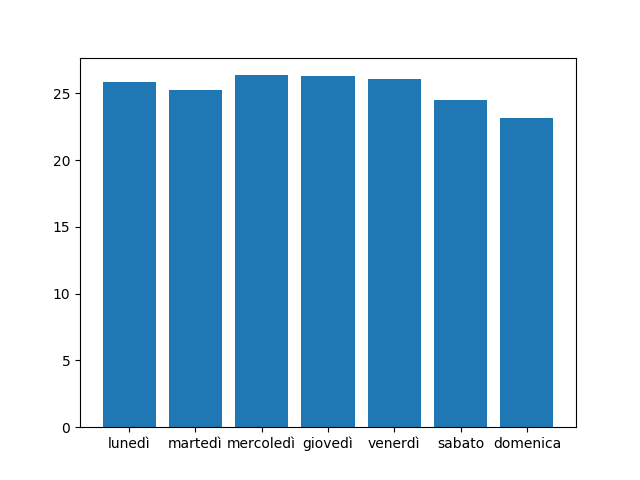
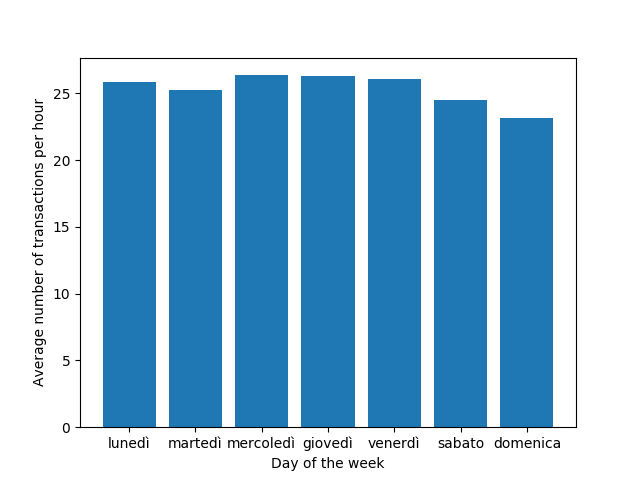
Added more graphs

Changed region(s): [[0.0312, 0.2188, 0.0938, 0.6562], [0.4375, 0.9375, 0.5938, 1.0], [0.0312, 0.6875, 0.0938, 0.8125]]

diff --git a/specification_model/analyze.py b/specification_model/analyze.py
@@ -4,7 +4,10 @@ import csv
 import scipy.stats as st
 import re
 from datetime import datetime
+from sklearn import datasets, linear_model
 
+
+monday = "2017-12-11"
 
 def days_between(d1, d2):
     d1 = datetime.strptime(d1, "%Y-%m-%d")
@@ -37,7 +40,8 @@ def get_best_distribution(data):
 
 
 
-def plot_trans_time():
+
+def plot_trans_time_old():
 	fd = open('trans_time.csv', newline='')
 	trans_time = csv.reader(fd, delimiter=',', quotechar='"')
 
@@ -61,15 +65,71 @@ def plot_trans_time():
 				pass
 		
 
+
+	best_fit = np.polyfit(items_1, times_1, 1)
+	# Train the model using the training set
+
+	# Make predictions using the testing set
+
 	#for i in range(0, len(items)):
 	#	print(times[i], items[i])
 
 	plt.scatter(items_1, times_1, s=5, color="r")
-	plt.scatter(items_8, times_8, s=5, color="b")
+	#plt.scatter(items_8, times_8, s=5, color="b")
 
+	pred_1 = [best_fit[0]*item + best_fit[1] for item in items_1]
+
+	plt.plot(items_1, pred_1 , color="b")
+	plt.xlabel("Number of items")
+	plt.ylabel("Duration of transaction")
 	plt.show()
 
-def plot_item_quantity():
+def plot_trans_time(day_filter):
+	fd = open('trans_time.csv', newline='')
+	trans_time = csv.reader(fd, delimiter=',', quotechar='"')
+
+	times_1 = []
+	items_1 = []
+
+	times_8 = []
+	items_8 = []
+	for row in trans_time:
+
+		if row[0] == 'WorkstationGroupID':
+			continue
+		day = row[2].split("T")[0]
+
+		if days_between(day, monday) % 7 == day_filter:
+			if row[0] == '1':
+				times_1.append(int(row[5]))
+				items_1.append(int(row[7]))
+			else:
+				times_8.append(int(row[5]))
+				items_8.append(int(row[7]))
+			
+
+
+	best_fit = np.polyfit(items_1, times_1, 1)
+	# Train the model using the training set
+
+	# Make predictions using the testing set
+
+	#for i in range(0, len(items)):
+	#	print(times[i], items[i])
+
+	plt.scatter(items_1, times_1, s=5, color="r")
+	#plt.scatter(items_8, times_8, s=5, color="b")
+
+	pred_1 = [best_fit[0]*item + best_fit[1] for item in items_1]
+
+	plt.plot(items_1, pred_1 , color="b")
+	plt.xlabel("Number of items for day " + str(day_filter))
+	plt.ylabel("Duration of transaction")
+	#plt.show()
+	plt.savefig("serve_speed_" + str(day_filter) + ".png")
+	plt.close()
+
+def plot_item_quantity_old():
 	fd = open('item_quantity.csv', newline='')
 	item_quantity = csv.reader(fd, delimiter=',', quotechar='"')
 
@@ -83,8 +143,41 @@ def plot_item_quantity():
 			pass
 	plt.plot(items, quantity)
 	
+	plt.xlabel("Number of items")
+	plt.ylabel("Number of transactions")
+
 	plt.show()
 
+	#get_best_distribution(quantity)
+
+def plot_item_quantity(day_filter):
+	fd = open('trans_time.csv', newline='')
+	item_quantity = csv.reader(fd, delimiter=',', quotechar='"')
+
+	items = [ i for i in range(1, 300)]
+	quantity = [0]*299
+
+	for row in item_quantity:
+
+		if row[0] == 'WorkstationGroupID':
+			continue
+
+		day = row[2].split("T")[0]
+		
+		#print(day, monday)
+		if day_filter == None or days_between(day, monday) % 7 == day_filter:
+			#print(int(row[7])-1)
+			if int(row[7])-1 < 299:
+				quantity[int(row[7])-1] += 1
+
+	plt.plot(items, quantity)
+	
+	plt.xlabel("Number of items for day " + str(day_filter))
+	plt.ylabel("Number of transactions")
+
+	#plt.show()
+	plt.savefig('item_quantity_'+str(day_filter)+'.png')
+	plt.close()
 	#get_best_distribution(quantity)
 
 
@@ -119,7 +212,7 @@ def find_full_days():
 
 	return full_days
 
-def plot_hour_transaction():
+def plot_hour_transaction_old():
 	fd = open('trans_time.csv', newline='')
 	trans_time = csv.reader(fd, delimiter=',', quotechar='"')
 
@@ -158,8 +251,65 @@ def plot_hour_transaction():
 	print(ratio)
 	plt.bar(hours, ratio)
 	
+
+	plt.xlabel("Hour of the day")
+	plt.ylabel("Average number of transactions")
+
 	plt.show()
 
+def plot_hour_transaction(day_filter):
+	fd = open('trans_time.csv', newline='')
+	trans_time = csv.reader(fd, delimiter=',', quotechar='"')
+
+
+	monday = "2017-12-11"
+	hours = [i for i in range(0, 24)]
+	trans = [0]*24
+	curr_hour = 0
+	total_hours = [0]*24
+
+	for row in trans_time:
+		if row[0] == 'WorkstationGroupID':
+			continue
+		day = row[2].split("T")[0]
+		hour = row[2].split("T")[1]
+
+		if curr_hour == 0:
+			curr_hour = int(hour.split(":")[0])
+
+
+		if days_between(day, monday) % 7 == day_filter:
+			hour = int(hour.split(":")[0])
+
+			if curr_hour != hour:
+				total_hours[curr_hour] += 1
+				curr_hour = hour
+
+			trans[hour] += 1
+
+	
+	ratio = [0]*24
+	for i in range(0, len(total_hours)):
+		if total_hours[i] == 0:
+			ratio[i] = 0
+		else:
+			ratio[i] = trans[i]/total_hours[i]
+
+	for i in range(6, len(ratio), 2):
+		#print(float(ratio[i]), float(ratio[i+1]), (float(ratio[i])+float(ratio[i+1])))
+		print("%.2f" % (float((float(ratio[i])+float(ratio[i+1])))/2), end=" & ")
+	print("")
+	plt.bar(hours, ratio)
+	
+
+	plt.xlabel("Hour of the day " + str(day_filter))
+	plt.ylabel("Average number of transactions")
+
+	#plt.show()
+
+	plt.savefig('transtaction_per_hour_normalized_'+str(day_filter)+'.png')
+
+	plt.close()
 
 def plot_day_transaction():
 
@@ -200,7 +350,42 @@ def plot_day_transaction():
 	print(ratio)
 	plt.bar(days, ratio)
 	
+	plt.xlabel("Day of the week")
+	plt.ylabel("Average number of transactions per hour")
 	plt.show()	
 
 
-plot_day_transaction()
+for i in range(6, 23):
+	print(str(i)+":00 &", end=' ')
+print("")
+for i in range(0,7):
+	plot_hour_transaction(i)
+
+from math import exp,log10
+from scipy.stats import norm
+import random
+
+mu = 24/60/60
+
+#print(mu)
+
+#values = [-mu*log10(1-random.random()) for i in range(0, 1000)]
+values = [random.expovariate(mu) for i in range(0, 10000)]
+
+#print(values)
+
+count = 0
+average = 0
+time_passed = 0
+total = 0
+for i in range(0, len(values)):
+	time_passed += values[i]
+	count += 1
+	
+	if time_passed > 3600:
+		time_passed = time_passed - 3600
+		average += count
+		count = 0
+		total += 1
+
+print(average / total)
